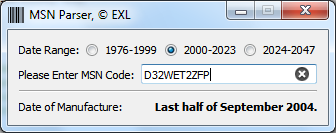
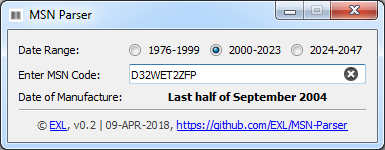
Update ReadMe.md and screens

diff --git a/ReadMe.md b/ReadMe.md
@@ -5,20 +5,26 @@ Simple Motorola Serial Number parser for get the phone manufacturing date writte
 
 ## Interface
 
-### Windows 7:
-![Windows 7](screens/Windows7.png)
-
 ### Windows 10:
 ![Windows 10](screens/Windows10.png)
 
-### Windows Classic:
-![Windows Classic](screens/WindowsC.png)
+### Windows 7:
+![Windows 7](screens/Windows7.png)
 
-### Ubuntu 15.04:
-![Ubuntu 15.04](screens/Ubuntu15.png)
+### Windows XP:
+![Windows 7](screens/WindowsXP.png)
+
+### Windows 2000:
+![Windows 2000](screens/Windows2000.png)
+
+### Ubuntu 16.04.4 LTS:
+![Ubuntu 16.04.4 LTS](screens/Ubuntu16.png)
 
 ### KDE Plasma 5:
 ![KDE Plasma 5](screens/KDE_Plasma_5.png)
+
+### GNOME 3:
+![GNOME 3](screens/Gnome3.png)
 
 ## Download
 [Binary releases (for Windows)](https://github.com/EXL/MSN-Parser/releases)
